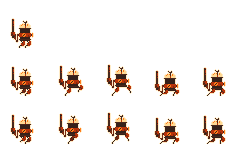
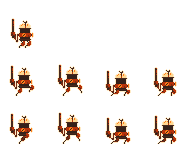
walk

diff --git a/player.js b/player.js
@@ -36,12 +36,12 @@ Player.prototype.hitGround = function() {
 
 Player.prototype.step = function() {
     if (this.walkCycle <= 0) {
-        this.walkCycle = 27;
+        this.walkCycle = 18;
         if (this.frameNumber == 0) {
-            this.frameNumber = 5;
+            this.frameNumber = 4;
         } else {
             this.frameNumber++;
-            if (this.frameNumber == 15) this.frameNumber = 5;
+            if (this.frameNumber == 12) this.frameNumber = 4;
         }
     }
 }
@@ -92,10 +92,8 @@ Player.prototype.update = function() {
         }
     } else if (walkableStates.includes(this.state)) {
         if (this.walkCycle > 0) {
-            this.vel.x = (0.5) * this.dir;
-            if (this.walkCycle == 18) {
-                this.frameNumber++;
-            } else if (this.walkCycle == 9) {
+            this.vel.x = (1) * this.dir;
+            if (this.walkCycle == 9) {
                 this.frameNumber++;
             }
         } else {
